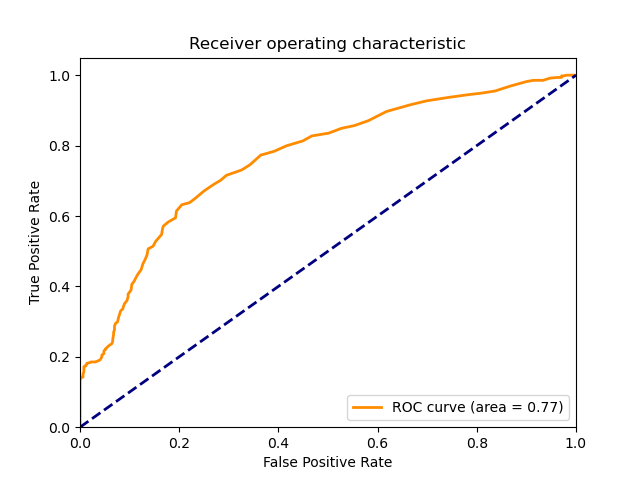
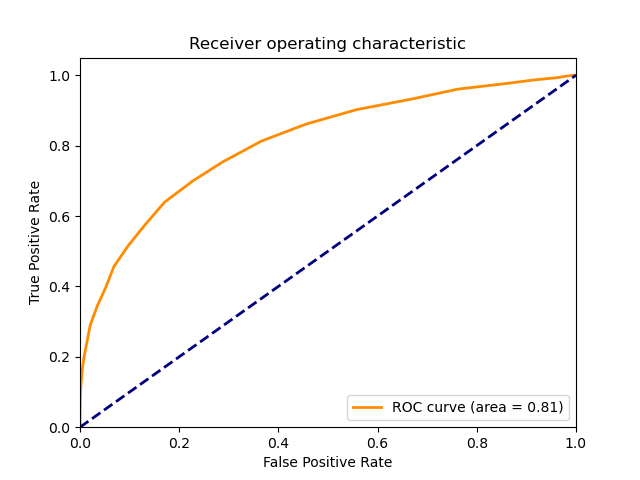
?

diff --git a/utils/utils_fit.py b/utils/utils_fit.py
@@ -8,10 +8,10 @@ import torch.nn.functional as F
 from tqdm import tqdm
 
 from .utils import get_lr
-from .utils_metrics import evaluate
+from .utils_metrics import evaluate, test
 
 
-def fit_one_epoch(model_train, model, loss_history, optimizer, epoch, epoch_step, epoch_step_val, gen, gen_val, Epoch, cuda, test_loader, lfw_eval_flag, fp16, scaler, save_period, save_dir, local_rank=0):
+def fit_one_epoch(model_train, model, loss_history, optimizer, epoch, epoch_step, epoch_step_val, gen, gen_val_loss, gen_val_acc, Epoch, cuda, test_loader, lfw_eval_flag, fp16, scaler, save_period, save_dir, local_rank=0):
     total_loss          = 0
     total_accuracy      = 0
 
@@ -53,27 +53,30 @@ def fit_one_epoch(model_train, model, loss_history, optimizer, epoch, epoch_step
             scaler.step(optimizer)
             scaler.update()
 
-        with torch.no_grad():
-            accuracy         = torch.mean((torch.argmax(F.softmax(outputs, dim=-1), dim=-1) == labels).type(torch.FloatTensor))
+        # with torch.no_grad():
+        #     accuracy         = torch.mean((torch.argmax(F.softmax(outputs, dim=-1), dim=-1) == labels).type(torch.FloatTensor))
             
         total_loss      += loss.item()
-        total_accuracy  += accuracy.item()
+        # total_accuracy  += accuracy.item()
 
         if local_rank == 0:
             pbar.set_postfix(**{'total_loss': total_loss / (iteration + 1), 
-                                'accuracy'  : total_accuracy / (iteration + 1), 
+                                # 'accuracy'  : total_accuracy / (iteration + 1),
                                 'lr'        : get_lr(optimizer)})
             pbar.update(1)
 
     if local_rank == 0:
         pbar.close()
         print('Finish Train')
-        print('Start Validation')
+        print('Start Validation for loss')
         pbar = tqdm(total=epoch_step_val, desc=f'Epoch {epoch + 1}/{Epoch}',postfix=dict,mininterval=0.3)
     model_train.eval()
-    for iteration, batch in enumerate(gen_val):
+
+#计算验证集的loss
+    for iteration, batch in enumerate(gen_val_loss):
         if iteration >= epoch_step_val:
             break
+
         images, labels = batch
         with torch.no_grad():
             if cuda:
@@ -83,17 +86,56 @@ def fit_one_epoch(model_train, model, loss_history, optimizer, epoch, epoch_step
             optimizer.zero_grad()
             outputs     = model_train(images, labels, mode="train")
             loss        = nn.NLLLoss()(F.log_softmax(outputs, -1), labels)
-            
-            accuracy    = torch.mean((torch.argmax(F.softmax(outputs, dim=-1), dim=-1) == labels).type(torch.FloatTensor))
-            
+
+            # accuracy    = torch.mean((torch.argmax(F.softmax(outputs, dim=-1), dim=-1) == labels).type(torch.FloatTensor))
+
             val_total_loss      += loss.item()
-            val_total_accuracy  += accuracy.item()
+            # val_total_accuracy  += accuracy.item()
 
         if local_rank == 0:
             pbar.set_postfix(**{'total_loss': val_total_loss / (iteration + 1),
-                                'accuracy'  : val_total_accuracy / (iteration + 1), 
+                                # 'accuracy'  : val_total_accuracy / (iteration + 1),
                                 'lr'        : get_lr(optimizer)})
             pbar.update(1)
+
+#计算验证集acc
+    if local_rank == 0:
+        pbar.close()
+        print('Finish val for loss')
+        print('Start Validation for acc')
+        pbar = tqdm(total=epoch_step_val, desc=f'Epoch {epoch + 1}/{Epoch}', postfix=dict, mininterval=0.3)
+
+    model_train.eval()
+    labels_acc, distances = [], []
+    for iteration, (data_a, data_p, label) in enumerate(gen_val_acc):
+        if iteration >= epoch_step_val:
+            break
+
+        with torch.no_grad():
+            #--------------------------------------#
+            #   加载数据，设置成cuda
+            #--------------------------------------#
+            data_a, data_p      = data_a.type(torch.FloatTensor), data_p.type(torch.FloatTensor)
+            if cuda:
+                data_a, data_p  = data_a.cuda(), data_p.cuda()
+            #--------------------------------------#
+            #   传入模型预测，获得预测结果
+            #   获得预测结果的距离
+            #--------------------------------------#
+            out_a, out_p        = model_train(data_a), model_train(data_p)
+            dists               = torch.sqrt(torch.sum((out_a - out_p) ** 2, 1))
+        distances.append(dists.data.cpu().numpy())
+        labels_acc.append(label.data.cpu().numpy())
+        if local_rank == 0:
+            pbar.set_postfix(**{'lr'        : get_lr(optimizer)})
+            pbar.update(1)
+
+    labels_acc = np.array([sublabel for label in labels_acc for sublabel in label])
+    distances = np.array([subdist for dist in distances for subdist in dist])
+
+    _, _, accuracy_val, _, _, _, _ = evaluate(distances, labels_acc)
+    accuracy_val_mean = accuracy_val.mean()
+
 
     if lfw_eval_flag:
         print("开始进行LFW数据集的验证。")
@@ -120,7 +162,8 @@ def fit_one_epoch(model_train, model, loss_history, optimizer, epoch, epoch_step
         if lfw_eval_flag:
             print('LFW_Accuracy: %2.5f+-%2.5f' % (np.mean(accuracy), np.std(accuracy)))
             
-        loss_history.append_loss(epoch, np.mean(accuracy) if lfw_eval_flag else total_accuracy / epoch_step, total_loss / epoch_step, val_total_loss / epoch_step_val)
+        loss_history.append_loss(epoch, np.mean(accuracy) if lfw_eval_flag else accuracy_val_mean, total_loss / epoch_step, val_total_loss / epoch_step_val)
         print('Total Loss: %.4f' % (total_loss / epoch_step))
+        print('Val_acc: %.4f' % accuracy_val_mean)
         if (epoch + 1) % save_period == 0 or epoch + 1 == Epoch:
             torch.save(model.state_dict(), os.path.join(save_dir, 'ep%03d-loss%.3f-val_loss%.3f.pth'%((epoch+1), total_loss / epoch_step, val_total_loss / epoch_step_val)))

diff --git a/train.py b/train.py
@@ -10,7 +10,7 @@ from torch.utils.data import DataLoader
 from nets.arcface import Arcface
 from nets.arcface_training import get_lr_scheduler, set_optimizer_lr
 from utils.callback import LossHistory
-from utils.dataloader import FacenetDataset, LFWDataset, dataset_collate
+from utils.dataloader import TrainDataset, TestDataset, ValDataset, dataset_collate
 from utils.utils import get_num_classes, show_config
 from utils.utils_fit import fit_one_epoch
 
@@ -64,7 +64,7 @@ if __name__ == "__main__":
     #   如果使用mobilenetv1为主干,  则设置pretrain = True
     #   如果使用其它网络为主干，    则设置pretrain = False
     #--------------------------------------------------------#
-    backbone        = "convNext"
+    backbone        = "mobilefacenet"
     #----------------------------------------------------------------------------------------------------------------------------#
     #   如果训练过程中存在中断训练的操作，可以将model_path设置成logs文件夹下的权值文件，将已经训练了一部分的权值再次载入。
     #   同时修改下方的训练的参数，来保证模型epoch的连续性。
@@ -75,7 +75,7 @@ if __name__ == "__main__":
     #   如果想要让模型从主干的预训练权值开始训练，则设置model_path = ''，pretrain = True，此时仅加载主干。
     #   如果想要让模型从0开始训练，则设置model_path = ''，pretrain = Fasle，此时从0开始训练。
     #----------------------------------------------------------------------------------------------------------------------------#  
-    model_path      = ""
+    model_path      = "model_data/arcface_mobilefacenet.pth"
     #----------------------------------------------------------------------------------------------------------------------------#
     #   是否使用主干网络的预训练权重，此处使用的是主干的权重，因此是在模型构建的时候进行加载的。
     #   如果设置了model_path，则主干的权值无需加载，pretrained的值无意义。
@@ -108,7 +108,7 @@ if __name__ == "__main__":
     #   batch_size      每次输入的图片数量
     #------------------------------------------------------#
     Init_Epoch      = 0
-    Epoch           = 50
+    Epoch           = 1
     batch_size      = 64
 
     #------------------------------------------------------------------#
@@ -253,13 +253,13 @@ if __name__ == "__main__":
     #---------------------------------#
     #   LFW估计
     #---------------------------------#
-    LFW_loader = torch.utils.data.DataLoader(
-        LFWDataset(dir=lfw_dir_path, pairs_path=lfw_pairs_path, image_size=input_shape), batch_size=32, shuffle=False) if lfw_eval_flag else None
+    Test_loader = torch.utils.data.DataLoader(
+        TestDataset(dir=lfw_dir_path, pairs_path=lfw_pairs_path, image_size=input_shape), batch_size=32, shuffle=False) if lfw_eval_flag else None
 
     #-------------------------------------------------------#
     #   0.01用于验证，0.99用于训练
     #-------------------------------------------------------#
-    val_split = 0.01
+    val_split = 0.8
     with open(annotation_path,"r") as f:
         lines = f.readlines()
     np.random.seed(10101)
@@ -310,12 +310,13 @@ if __name__ == "__main__":
         #---------------------------------------#
         #   构建数据集加载器。
         #---------------------------------------#
-        train_dataset   = FacenetDataset(input_shape, lines[:num_train], random = True)
-        val_dataset     = FacenetDataset(input_shape, lines[num_train:], random = False)
+        train_dataset   = TrainDataset(input_shape, lines[:num_train], random = True)
+        val_dataset_loss = TrainDataset(input_shape, lines[num_train:], random = True)
+        val_dataset_acc     = ValDataset(input_shape, lines[num_train:], random = False)
         
         if distributed:
             train_sampler   = torch.utils.data.distributed.DistributedSampler(train_dataset, shuffle=True,)
-            val_sampler     = torch.utils.data.distributed.DistributedSampler(val_dataset, shuffle=False,)
+            val_sampler     = torch.utils.data.distributed.DistributedSampler(val_dataset_loss, shuffle=False,)
             batch_size      = batch_size // ngpus_per_node
             shuffle         = False
         else:
@@ -325,8 +326,10 @@ if __name__ == "__main__":
 
         gen             = DataLoader(train_dataset, shuffle=shuffle, batch_size=batch_size, num_workers=num_workers, pin_memory=True,
                                 drop_last=True, collate_fn=dataset_collate, sampler=train_sampler)
-        gen_val         = DataLoader(val_dataset, shuffle=shuffle, batch_size=batch_size, num_workers=num_workers, pin_memory=True,
+        gen_val_loss         = DataLoader(val_dataset_loss, shuffle=shuffle, batch_size=batch_size, num_workers=num_workers, pin_memory=True,
                                 drop_last=True, collate_fn=dataset_collate, sampler=val_sampler)
+        gen_val_acc = DataLoader(val_dataset_acc, shuffle=shuffle, batch_size=batch_size, num_workers=num_workers, pin_memory=True,
+                                drop_last=True, sampler=val_sampler)
 
         for epoch in range(Init_Epoch, Epoch):
             if distributed:
@@ -334,7 +337,7 @@ if __name__ == "__main__":
                 
             set_optimizer_lr(optimizer, lr_scheduler_func, epoch)
             
-            fit_one_epoch(model_train, model, loss_history, optimizer, epoch, epoch_step, epoch_step_val, gen, gen_val, Epoch, Cuda, LFW_loader, lfw_eval_flag, fp16, scaler, save_period, save_dir, local_rank)
+            fit_one_epoch(model_train, model, loss_history, optimizer, epoch, epoch_step, epoch_step_val, gen, gen_val_loss, gen_val_acc, Epoch, Cuda, Test_loader, lfw_eval_flag, fp16, scaler, save_period, save_dir, local_rank)
 
         if local_rank == 0:
             loss_history.writer.close()

diff --git a/utils/dataloader.py b/utils/dataloader.py
@@ -1,4 +1,5 @@
 import os
+import random
 
 import numpy as np
 import torch
@@ -9,7 +10,7 @@ from PIL import Image
 from .utils import cvtColor, preprocess_input, resize_image
 
 
-class FacenetDataset(data.Dataset):
+class TrainDataset(data.Dataset):
     def __init__(self, input_shape, lines, random):
         self.input_shape    = input_shape
         self.lines          = lines
@@ -46,9 +47,69 @@ def dataset_collate(batch):
     targets = torch.from_numpy(np.array(targets)).long()
     return images, targets
 
-class LFWDataset(datasets.ImageFolder):
+
+class ValDataset(data.Dataset):
+
+    def __init__(self, input_shape, lines, random):
+        super(ValDataset, self).__init__()
+        self.input_shape    = input_shape
+        self.lines          = lines
+        self.random         = random
+        self.pair_list = self.gen_pairs()
+
+    def rand(self, a=0, b=1):
+        return np.random.rand()*(b-a) + a
+
+    def gen_pairs(self):
+        pair_list = []
+        issame_list = []
+
+        for idx, line in enumerate(self.lines):
+            annotation_path_cur = line.split(';')[1].strip()
+            target_cur = int(line.split(';')[0])
+            rand_another_idx = random.randint(0, len(self.lines)-1)
+
+            annotation_path_another = self.lines[rand_another_idx].split(';')[1].strip()
+            target_another = int(self.lines[rand_another_idx].split(';')[0])
+
+            if target_cur == target_another:
+                issame = True
+
+            else:
+                issame = False
+
+            issame_list.append(issame)
+            pair_list.append((annotation_path_cur, annotation_path_another, issame))
+
+        return pair_list
+
+    def __len__(self):
+        return len(self.pair_list)
+
+    def __getitem__(self, idx):
+        pair = self.pair_list[idx]
+
+        image1 = cvtColor(Image.open(pair[0]))
+        image2 = cvtColor(Image.open(pair[1]))
+        issame = pair[2]
+        # ------------------------------------------#
+        #   翻转图像
+        # ------------------------------------------#
+        if self.rand() < .5 and self.random:
+            image1 = image1.transpose(Image.FLIP_LEFT_RIGHT)
+            image2 = image2.transpose(Image.FLIP_LEFT_RIGHT)
+
+        image1 = resize_image(image1, [self.input_shape[1], self.input_shape[0]], letterbox_image=True)
+        image1 = np.transpose(preprocess_input(np.array(image1, dtype='float32')), (2, 0, 1))
+
+        image2 = resize_image(image2, [self.input_shape[1], self.input_shape[0]], letterbox_image=True)
+        image2 = np.transpose(preprocess_input(np.array(image2, dtype='float32')), (2, 0, 1))
+        return image1, image2, issame
+
+
+class TestDataset(datasets.ImageFolder):
     def __init__(self, dir, pairs_path, image_size, transform=None):
-        super(LFWDataset, self).__init__(dir, transform)
+        super(TestDataset, self).__init__(dir, transform)
         self.image_size = image_size
         self.pairs_path = pairs_path
         self.validation_images = self.get_lfw_paths(dir)

diff --git a/eval_LFW.py b/eval_LFW.py
@@ -2,7 +2,7 @@ import torch
 import torch.backends.cudnn as cudnn
 
 from nets.arcface import Arcface
-from utils.dataloader import LFWDataset
+from utils.dataloader import TestDataset
 from utils.utils_metrics import test
 
 
@@ -48,7 +48,7 @@ if __name__ == "__main__":
     png_save_path   = "model_data/roc_test.png"
 
     test_loader = torch.utils.data.DataLoader(
-        LFWDataset(dir=lfw_dir_path, pairs_path=lfw_pairs_path, image_size=input_shape), batch_size=batch_size, shuffle=False, drop_last=False)
+        TestDataset(dir=lfw_dir_path, pairs_path=lfw_pairs_path, image_size=input_shape), batch_size=batch_size, shuffle=False, drop_last=False)
 
     model = Arcface(backbone=backbone, mode="predict")
 

diff --git a/nets/arcface.py b/nets/arcface.py
@@ -4,7 +4,7 @@ import torch
 import torch.nn as nn
 import torch.nn.functional as F
 from torch.nn import Module, Parameter
-from nets.ConvNext.model import convnext_tiny
+from nets.ConvNext.convNext import convnext_tiny
 
 from nets.iresnet import (iresnet18, iresnet34, iresnet50, iresnet100,
                           iresnet200)

diff --git a/utils/utils.py b/utils/utils.py
@@ -63,6 +63,8 @@ def show_config(**kwargs):
         print('|%25s | %40s|' % (str(key), str(value)))
     print('-' * 70)
 
+
+
 if __name__ == "__main__":
     image =  Image.new('RGB', (1024, 1024))
     resize_image(image, (112, 112), True)
